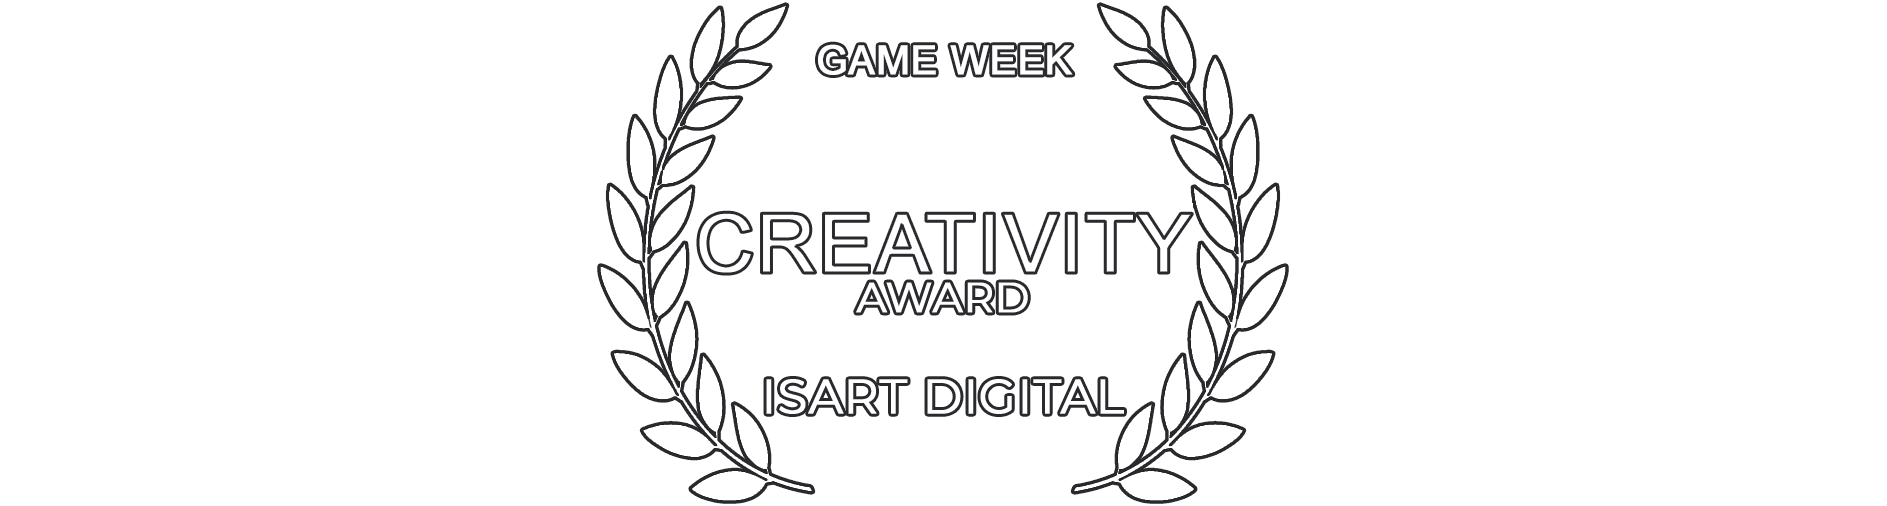
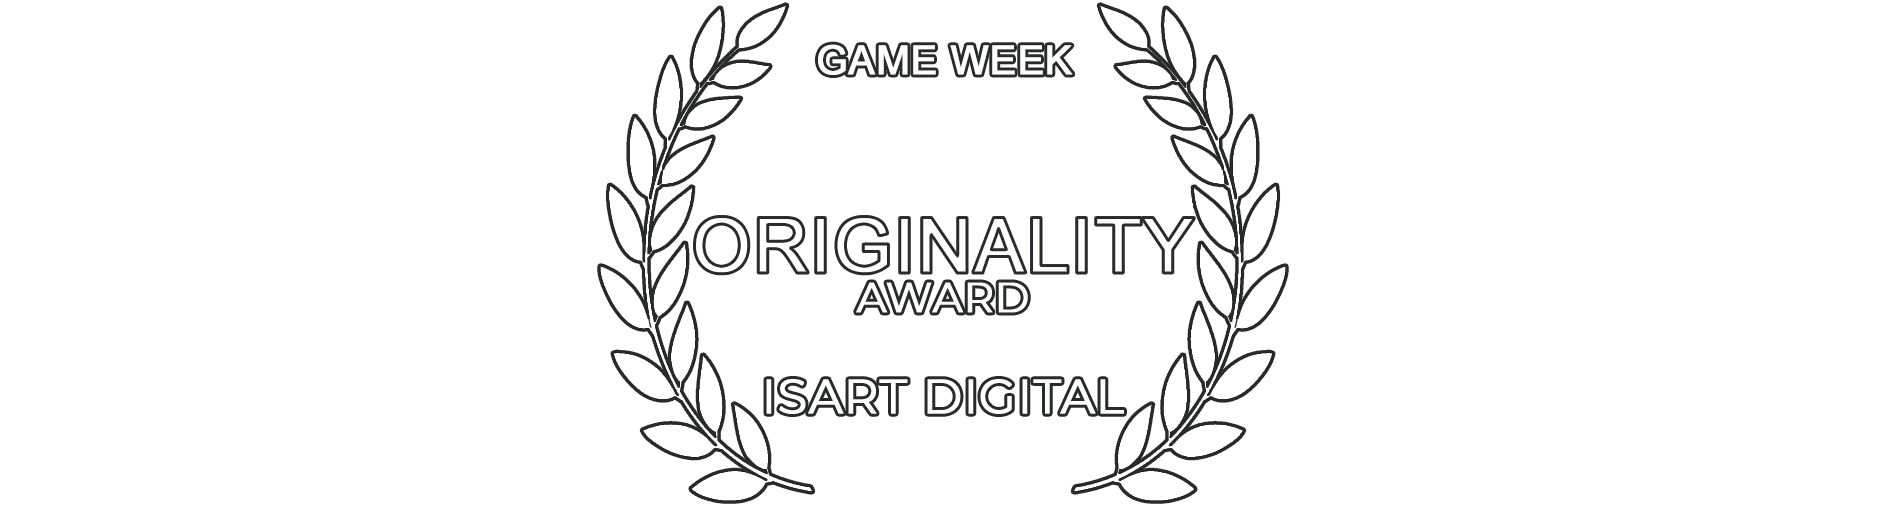
Corrected award name

Changed region(s): [[0.3688, 0.415, 0.6455, 0.5632]]

diff --git a/content/en/posts/dont-break-the-sausage.md b/content/en/posts/dont-break-the-sausage.md
@@ -27,6 +27,6 @@ this technique I used is working well, but there is also other options, like usi
 
 {{< zooom src="/dont-break-the-sausage/sidebyside.png" >}}
 
-Don't break the sausage was awarded the Creativity prize at the end of the week, and has been offered the opportunity to be published by webedia games.
+Don't break the sausage was awarded the Originality prize at the end of the week, and has been offered the opportunity to be published by webedia games.
 
 {{< image src = "/dont-break-the-sausage/award.png" >}}

diff --git a/content/fr/posts/dont-break-the-sausage.md b/content/fr/posts/dont-break-the-sausage.md
@@ -27,6 +27,6 @@ Cette technique que j'ai utilisé fonctionne bien, mais il existe d'autres optio
 
 {{< zooom src="/dont-break-the-sausage/sidebyside.png" >}}
 
-Don't break the sausage a reçu le prix de la Créativité à la fin de la semaine et s'est vu offrir la possibilité d'être publié par Webedia games.
+Don't break the sausage a reçu le prix de l'originalité à la fin de la semaine et s'est vu offrir la possibilité d'être publié par Webedia games.
 
 {{< image src = "/dont-break-the-sausage/award.png" >}}
